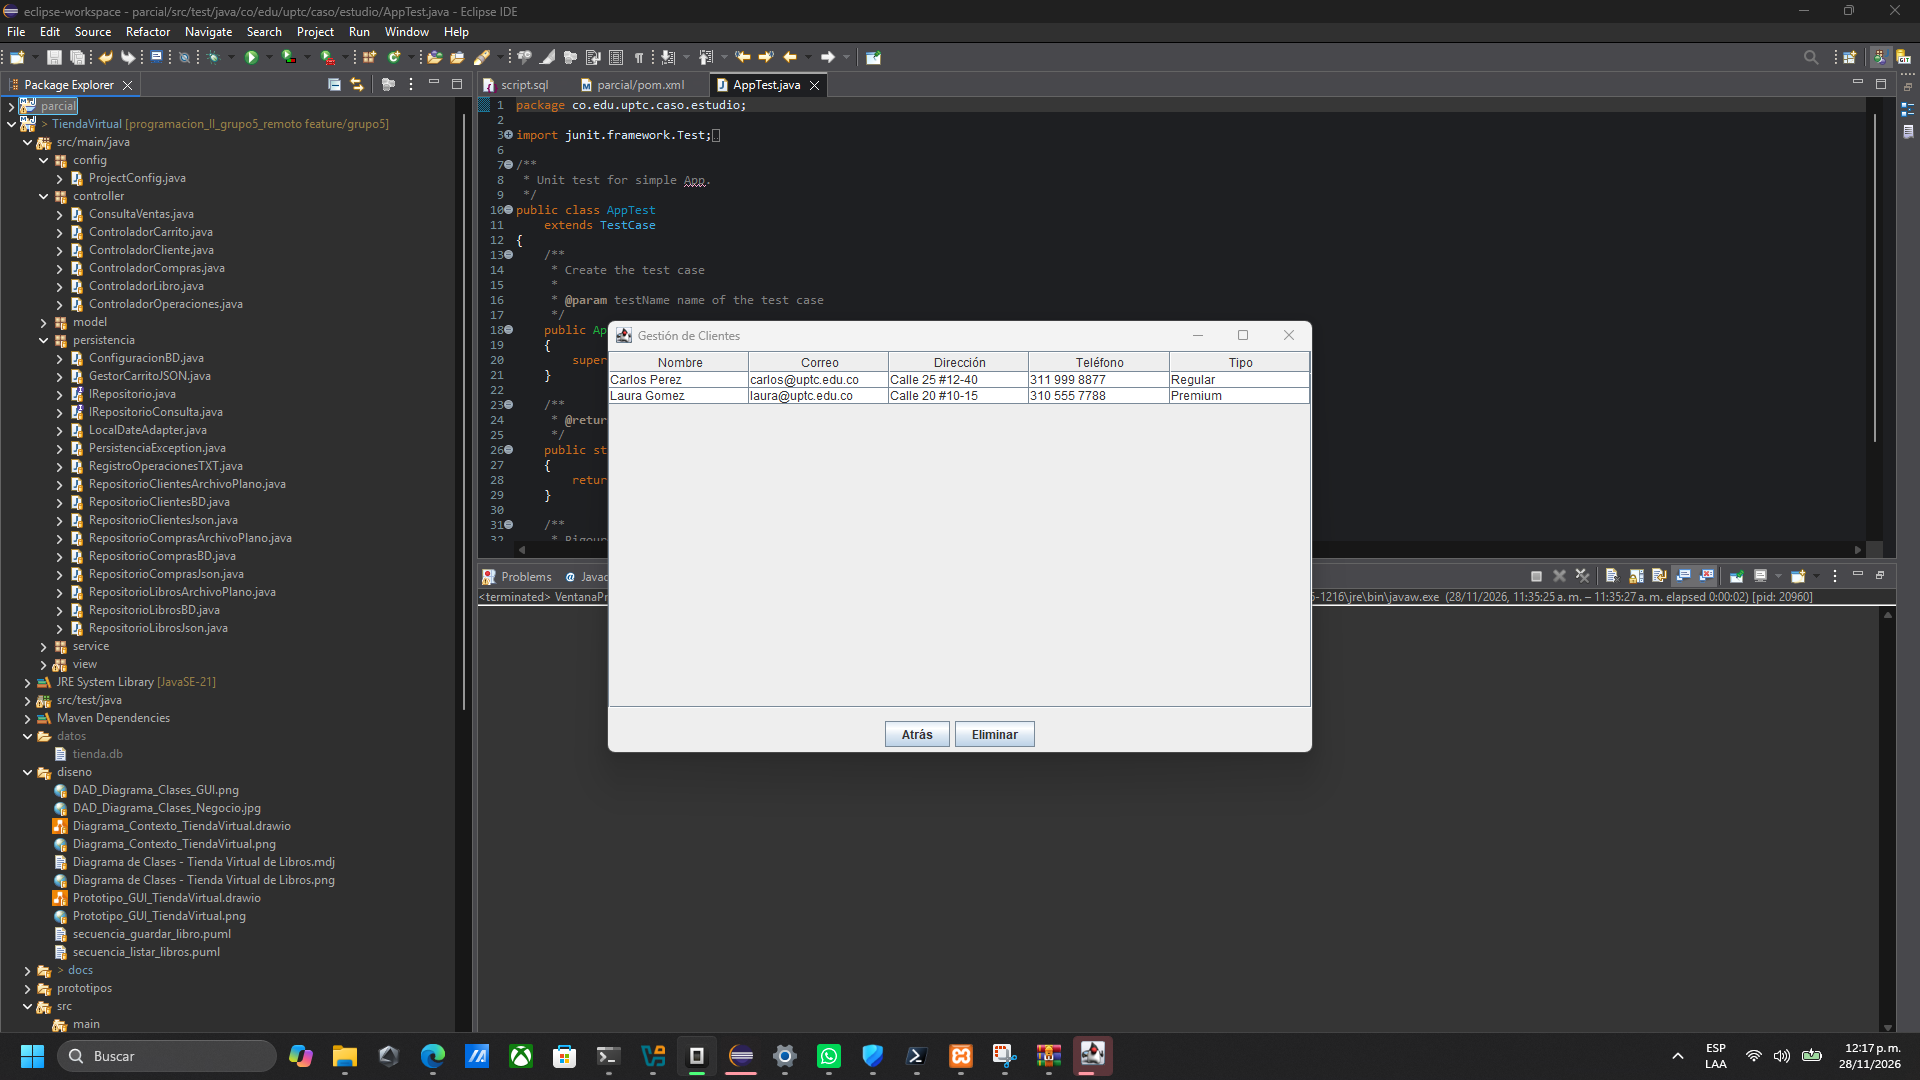
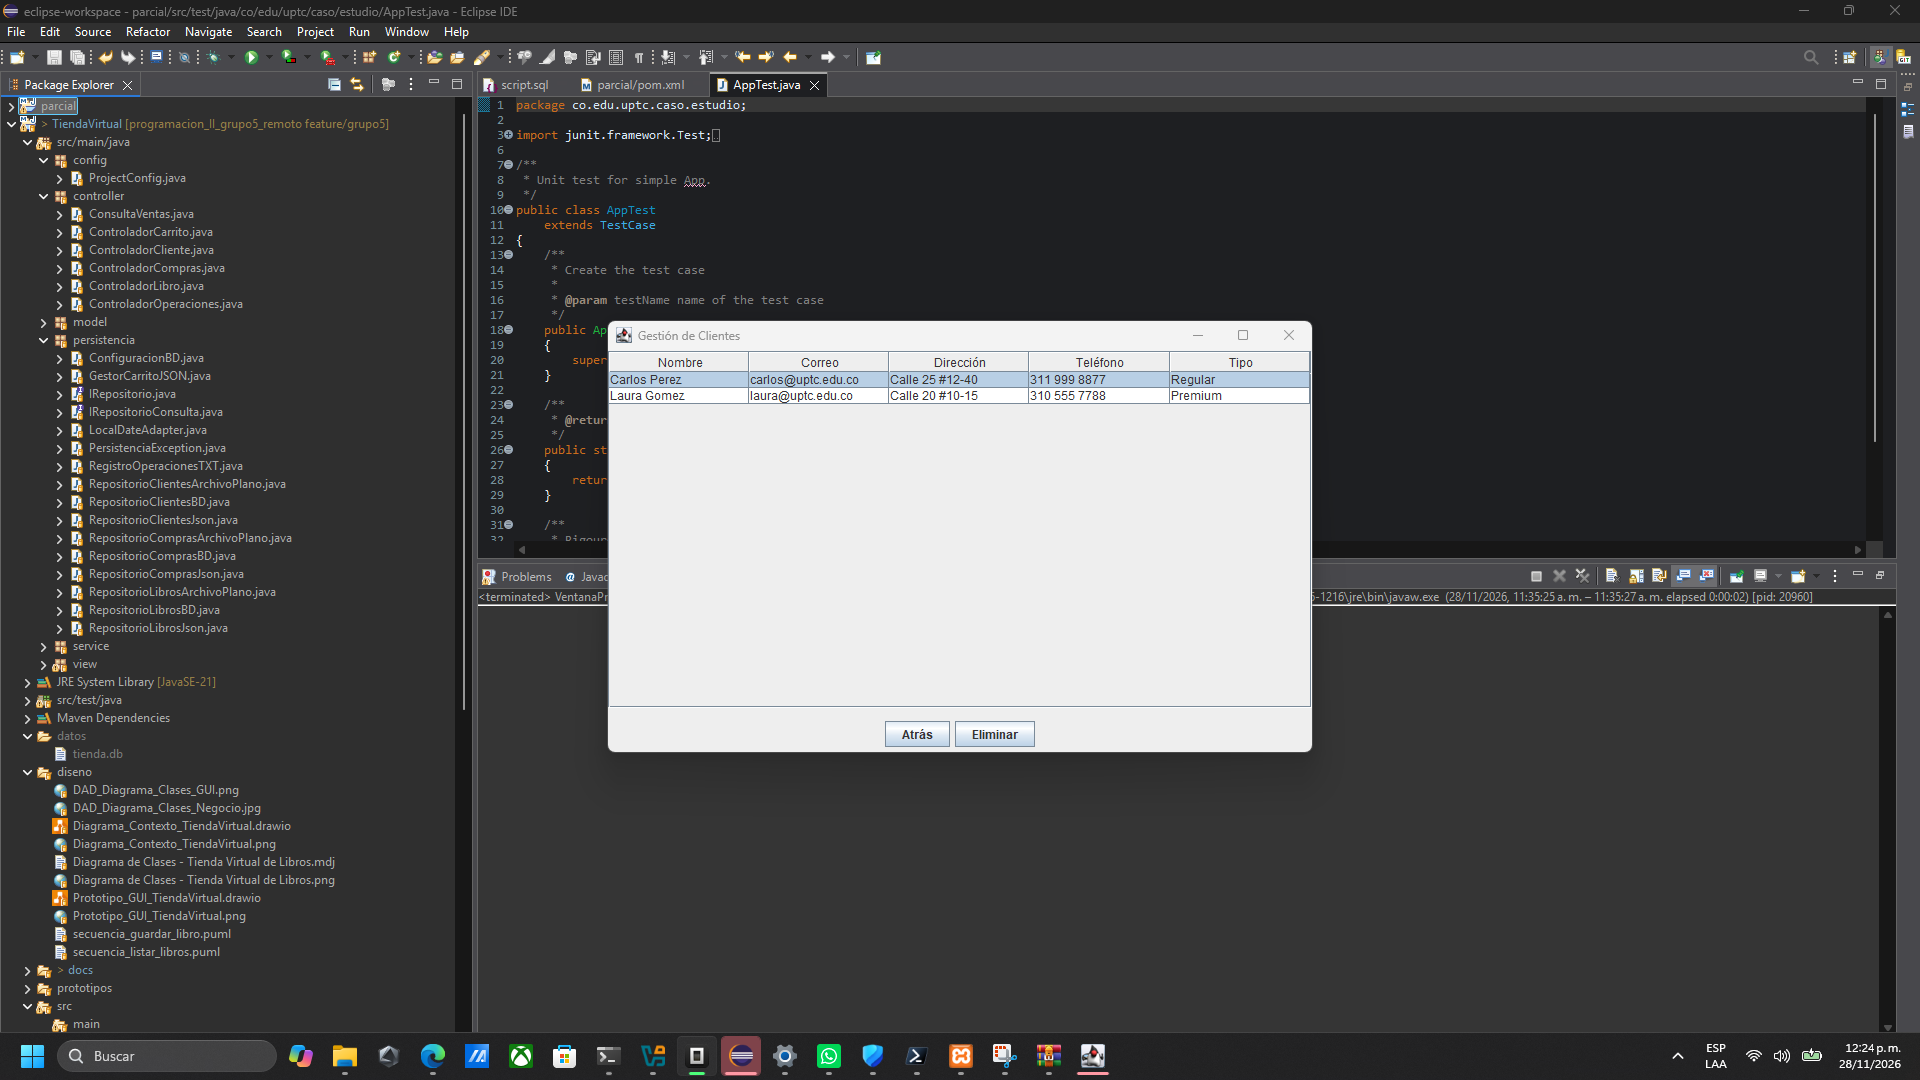
docs(evidencias): elimina capturas duplicadas e indexa el DAD con enlace al repositorio

Changed region(s): [[0.3125, 0.3361, 0.6875, 0.3667], [0.5625, 0.9472, 0.5938, 1.0], [0.375, 0.9472, 0.4062, 1.0]]

diff --git a/grupo5_tienda_virtual/docs/evidencias/README.md b/grupo5_tienda_virtual/docs/evidencias/README.md
@@ -6,64 +6,88 @@
 
 ## 1. Capturas de pantalla
 
-### Capturas de la ventana
+Todas están a pantalla completa (1920×1080) con Eclipse abierto detrás.
+Se verificó que **no hay imágenes repetidas**: cada archivo muestra un estado
+distinto (comparación píxel a píxel de la ventana, ignorando el reloj).
+
+### 1.1 Recorrido completo de la app (`app/`, 43 capturas)
 
 | Archivo | Evidencia |
 |---|---|
-| `capturas/01_login.png` | Ventana de inicio de sesión |
-| `capturas/02_registro_cliente.png` | Registro de cliente |
-| `capturas/03_gestion_clientes.png` | Gestión y listado de clientes |
-| `capturas/04_gestion_libros.png` | Gestión y catálogo de libros |
-| `capturas/05_mi_cuenta.png` | Datos del cliente |
-| `capturas/06_compras_carrito.png` | Carrito con productos, subtotal, IVA, descuento y total |
-| `capturas/07_recibo.png` | Recibo con subtotal, IVA, descuento y total |
-| `capturas/08_historial_compras.png` | Historial de compras |
+| `app/01_login_vacio.png` | Login sin datos |
+| `app/02_login_campos_obligatorios.png` | Error de campos obligatorios |
+| `app/03_login_credenciales_invalidas.png` | Error de credenciales |
+| `app/04_login_llenado.png` | Login diligenciado |
+| `app/06_admin_menu.png` | Menú de administración |
+| `app/10_registro_vacio.png` | Registro vacío |
+| `app/11_registro_campos_obligatorios.png` | Registro sin datos obligatorios |
+| `app/12_registro_correo_invalido.png` | Registro con correo inválido |
+| `app/14_registro_llenado.png` | Registro diligenciado |
+| `app/15_registro_exitoso.png` | Cliente registrado correctamente |
+| `app/17_registro_correo_duplicado.png` | Correo ya registrado |
+| `app/18_clientes_listado.png` | Listado de clientes |
+| `app/19_clientes_confirmar_eliminar.png` | Confirmación de eliminación |
+| `app/20_clientes_eliminado_aviso.png` | Cliente eliminado |
+| `app/21_clientes_despues.png` | Listado actualizado |
+| `app/22_clientes_sin_seleccion.png` | Error sin selección |
+| `app/24_libros_eliminar_sin_isbn.png` | Error al eliminar sin ISBN |
+| `app/25_libros_isbn_duplicado.png` | ISBN duplicado |
+| `app/26_libros_datos_invalidos.png` | Datos numéricos inválidos |
+| `app/27_libros_formulario_lleno.png` | Libro diligenciado |
+| `app/28_libros_registrado_aviso.png` | Libro registrado |
+| `app/29_libros_seleccionado.png` | Libro seleccionado con formulario lleno |
+| `app/30_libros_actualizado_aviso.png` | Libro actualizado |
+| `app/31_libros_confirmar_eliminar.png` | Confirmación de eliminación |
+| `app/32_libros_eliminar_con_ventas_error.png` | Bloqueo por ventas asociadas |
+| `app/33_libros_con_ventas_bloqueado.png` | El libro con ventas sigue en el catálogo |
+| `app/34_libros_eliminado_aviso.png` | Libro sin ventas eliminado |
+| `app/35_libros_despues.png` | Catálogo final |
+| `app/36_mi_cuenta_datos.png` | Datos del cliente |
+| `app/40_mi_cuenta_a_compras.png` | Mi Cuenta abre Compras (carrito vacío) |
+| `app/41_mi_cuenta_a_historial.png` | Mi Cuenta abre el historial |
+| `app/43_compras_carrito_vacio.png` | Compra sin productos |
+| `app/44_compras_agregado.png` | Libro agregado al carrito |
+| `app/45_compras_cantidad_invalida.png` | Cantidad no numérica |
+| `app/46_compras_stock_insuficiente.png` | Stock insuficiente |
+| `app/47_compras_modificada.png` | Cantidad modificada |
+| `app/49_compras_lista_pagar.png` | Carrito listo con método de pago |
+| `app/50_compras_confirmacion.png` | Resumen de confirmación |
+| `app/51_compras_exitosa_aviso.png` | Compra registrada |
+| `app/52_recibo.png` | Recibo con subtotal, IVA, descuento y total |
+| `app/54_historial.png` | Historial de compras |
+| `app/55_mi_cuenta_nombre_obligatorio.png` | Validación de nombre |
+| `app/57_mi_cuenta_guardado_aviso.png` | Datos actualizados |
 
-### Capturas por operación CRUD
-
-En `crud/` están las capturas específicas por operación, a pantalla completa con Eclipse detrás:
+### 1.2 Pruebas individuales CRUD (`crud/`, 12 capturas)
 
 | Archivo | Operación |
 |---|---|
 | `crud/PI-CLI-01_crear_formulario.png` | Formulario de registro de cliente |
 | `crud/PI-CLI-02_listar.png` | Listado de clientes |
 | `crud/PI-CLI-03_actualizar.png` | Datos actualizados del cliente |
-| `crud/PI-CLI-04_eliminar.png` | Listado después de eliminar un cliente |
-| `crud/PI-LIB-01_crear_formulario.png` | Formulario de registro de libro |
-| `crud/PI-LIB-02_listar.png` | Catálogo/listado de libros |
+| `crud/PI-CLI-04_eliminar_antes.png` | Cliente seleccionado para eliminar |
+| `crud/PI-CLI-05_eliminar_despues.png` | Listado después de eliminar |
+| `crud/PI-LIB-01_crear_formulario.png` | Formulario de libro diligenciado |
+| `crud/PI-LIB-02_listar.png` | Búsqueda con formulario lleno |
 | `crud/PI-LIB-03_actualizar.png` | Libro actualizado |
-| `crud/PI-LIB-04_eliminar.png` | Listado después de eliminar un libro |
-| `crud/PI-COM-01_carrito.png` | Carrito con productos |
+| `crud/PI-LIB-04_eliminar_antes.png` | Libro seleccionado para eliminar |
+| `crud/PI-COM-01_carrito.png` | Carrito con productos y totales |
 | `crud/PI-COM-02_recibo.png` | Recibo de compra |
 | `crud/PI-COM-03_historial.png` | Historial de compras |
 
-Los errores y validaciones se evidencian en los logs de `pruebas/`:
-- Correo/contraseña inválidos.
-- Cliente duplicado.
-- Libro con datos inválidos.
-- Libro con ventas.
-- Stock insuficiente.
-- Compra inválida.
-- Fallo de guardado.
-
-### Capturas con Eclipse detrás
-
-En `capturas_eclipse/` están las mismas 8 ventanas, pero en pantalla completa
-(1920×1080) con Eclipse abierto detrás.
+### 1.3 Eclipse con el proyecto (`capturas_eclipse/`, 1 captura)
 
 | Archivo | Evidencia |
 |---|---|
-| `capturas_eclipse/00_eclipse_proyecto.png` | Eclipse con el proyecto abierto |
-| `capturas_eclipse/01_login.png` | Login con Eclipse detrás |
-| `capturas_eclipse/02_registro_cliente.png` | Registro con Eclipse detrás |
-| `capturas_eclipse/03_gestion_clientes.png` | Clientes con Eclipse detrás |
-| `capturas_eclipse/04_gestion_libros.png` | Libros con Eclipse detrás |
-| `capturas_eclipse/05_mi_cuenta.png` | Mi cuenta con Eclipse detrás |
-| `capturas_eclipse/06_compras_carrito.png` | Compras con Eclipse detrás |
-| `capturas_eclipse/07_recibo.png` | Recibo con Eclipse detrás |
-| `capturas_eclipse/08_historial_compras.png` | Historial con Eclipse detrás |
+| `capturas_eclipse/00_eclipse_proyecto.png` | Eclipse con el proyecto `grupo5_tienda_virtual [feature/grupo5]` abierto |
 
-Las capturas se generaron abriendo las ventanas reales del proyecto con datos de demostración:
+### Evidencias completas en GitHub
+
+```text
+https://github.com/UPTC-DEVELOP/programacion_II/tree/feature/grupo5/grupo5_tienda_virtual/docs/evidencias
+```
+
+Datos de demostración usados:
 
 - Cliente Premium: `laura@uptc.edu.co`.
 - Cliente Regular: `carlos@uptc.edu.co`.

diff --git a/grupo5_tienda_virtual/docs/DAD_FINAL_U4/10_EVIDENCIAS.md b/grupo5_tienda_virtual/docs/DAD_FINAL_U4/10_EVIDENCIAS.md
@@ -1,0 +1,114 @@
+# 10. Evidencias: qué va en el DAD y qué queda en el repositorio
+
+**Verificación de duplicados:** las 56 capturas se compararon recortando la
+ventana de la app y contrastando píxel a píxel (ignorando el reloj de Windows).
+Resultado: **0 imágenes repetidas**.
+
+## Repositorio
+
+```text
+https://github.com/UPTC-DEVELOP/programacion_II/tree/feature/grupo5/grupo5_tienda_virtual/docs/evidencias
+```
+
+| Carpeta | Contenido | Enlace directo |
+|---|---|---|
+| `app/` | Recorrido completo (43) | [ver](https://github.com/UPTC-DEVELOP/programacion_II/tree/feature/grupo5/grupo5_tienda_virtual/docs/evidencias/app) |
+| `crud/` | Pruebas individuales (12) | [ver](https://github.com/UPTC-DEVELOP/programacion_II/tree/feature/grupo5/grupo5_tienda_virtual/docs/evidencias/crud) |
+| `capturas_eclipse/` | Eclipse con el proyecto (1) | [ver](https://github.com/UPTC-DEVELOP/programacion_II/tree/feature/grupo5/grupo5_tienda_virtual/docs/evidencias/capturas_eclipse) |
+| `pruebas/` | Logs Maven (16) | [ver](https://github.com/UPTC-DEVELOP/programacion_II/tree/feature/grupo5/grupo5_tienda_virtual/docs/evidencias/pruebas) |
+
+## 10.1 Capturas que van dentro del DAD (42)
+
+### Arquitectura e integración
+
+| Captura | Sección | Muestra |
+|---|---|---|
+| `capturas_eclipse/00_eclipse_proyecto.png` | 3 y 6 | Eclipse con el proyecto abierto |
+
+### 4.1 Clientes (Juan Pablo)
+
+| Captura | Sección | Muestra |
+|---|---|---|
+| `app/01_login_vacio.png` | 4.1 | Login sin datos |
+| `app/04_login_llenado.png` | 4.1 | Login diligenciado |
+| `app/14_registro_llenado.png` | 4.1 | Registro diligenciado |
+| `app/15_registro_exitoso.png` | 4.1 | Cliente registrado |
+| `app/17_registro_correo_duplicado.png` | 4.1 | Correo duplicado |
+| `app/18_clientes_listado.png` | 4.1 | Listado de clientes |
+| `app/19_clientes_confirmar_eliminar.png` | 4.1 | Confirmación de eliminación |
+| `app/21_clientes_despues.png` | 4.1 | Listado actualizado |
+| `app/36_mi_cuenta_datos.png` | 4.1 | Datos del cliente |
+| `app/57_mi_cuenta_guardado_aviso.png` | 4.1 | Datos actualizados |
+| `crud/PI-CLI-01_crear_formulario.png` | 4.1.f | Crear |
+| `crud/PI-CLI-02_listar.png` | 4.1.f | Listar |
+| `crud/PI-CLI-03_actualizar.png` | 4.1.f | Actualizar |
+| `crud/PI-CLI-04_eliminar_antes.png` | 4.1.f | Eliminar (antes) |
+| `crud/PI-CLI-05_eliminar_despues.png` | 4.1.f | Eliminar (después) |
+
+### 4.2 Libros (Cristhian)
+
+| Captura | Sección | Muestra |
+|---|---|---|
+| `app/27_libros_formulario_lleno.png` | 4.2 | Formulario diligenciado |
+| `app/28_libros_registrado_aviso.png` | 4.2 | Libro registrado |
+| `app/29_libros_seleccionado.png` | 4.2 | Libro seleccionado |
+| `app/30_libros_actualizado_aviso.png` | 4.2 | Libro actualizado |
+| `app/31_libros_confirmar_eliminar.png` | 4.2 | Confirmación de eliminación |
+| `app/32_libros_eliminar_con_ventas_error.png` | 4.2 | Bloqueo por ventas |
+| `app/35_libros_despues.png` | 4.2 | Catálogo final |
+| `crud/PI-LIB-01_crear_formulario.png` | 4.2.f | Crear |
+| `crud/PI-LIB-02_listar.png` | 4.2.f | Listar/buscar |
+| `crud/PI-LIB-03_actualizar.png` | 4.2.f | Actualizar |
+| `crud/PI-LIB-04_eliminar_antes.png` | 4.2.f | Eliminar |
+
+### 4.3 Compras (Liz)
+
+| Captura | Sección | Muestra |
+|---|---|---|
+| `app/43_compras_carrito_vacio.png` | 4.3 | Compra sin productos |
+| `app/44_compras_agregado.png` | 4.3 | Libro agregado |
+| `app/46_compras_stock_insuficiente.png` | 4.3 | Stock insuficiente |
+| `app/47_compras_modificada.png` | 4.3 | Cantidad modificada |
+| `app/50_compras_confirmacion.png` | 4.3 | Confirmación de compra |
+| `app/52_recibo.png` | 4.3 | Recibo con descuento |
+| `app/54_historial.png` | 4.3 | Historial |
+| `crud/PI-COM-01_carrito.png` | 4.3.f | Carrito |
+| `crud/PI-COM-02_recibo.png` | 4.3.f | Recibo |
+| `crud/PI-COM-03_historial.png` | 4.3.f | Historial |
+
+### 5. Validaciones y errores
+
+| Captura | Muestra |
+|---|---|
+| `app/02_login_campos_obligatorios.png` | Campos obligatorios |
+| `app/03_login_credenciales_invalidas.png` | Credenciales inválidas |
+| `app/22_clientes_sin_seleccion.png` | Cliente sin seleccionar |
+| `app/45_compras_cantidad_invalida.png` | Cantidad no numérica |
+| `app/55_mi_cuenta_nombre_obligatorio.png` | Nombre obligatorio |
+
+## 10.2 Capturas que NO van dentro del DAD (14)
+
+Quedan en el repositorio como respaldo y se consultan con el enlace de la carpeta.
+
+| Captura | Motivo |
+|---|---|
+| `app/06_admin_menu.png` | Menú intermedio de administración |
+| `app/10_registro_vacio.png` | Estado inicial del formulario |
+| `app/11_registro_campos_obligatorios.png` | Variante del mismo mensaje de validación |
+| `app/12_registro_correo_invalido.png` | Variante del mismo mensaje de validación |
+| `app/20_clientes_eliminado_aviso.png` | Aviso intermedio |
+| `app/24_libros_eliminar_sin_isbn.png` | Variante de validación |
+| `app/25_libros_isbn_duplicado.png` | Variante de validación |
+| `app/26_libros_datos_invalidos.png` | Variante de validación |
+| `app/33_libros_con_ventas_bloqueado.png` | Repite el estado del bloqueo |
+| `app/34_libros_eliminado_aviso.png` | Aviso intermedio |
+| `app/40_mi_cuenta_a_compras.png` | Navegación intermedia |
+| `app/41_mi_cuenta_a_historial.png` | Navegación intermedia |
+| `app/49_compras_lista_pagar.png` | Estado previo a la confirmación |
+| `app/51_compras_exitosa_aviso.png` | Aviso intermedio |
+
+Aunque no se inserten en el documento, **todas** se pueden ver en:
+
+```text
+https://github.com/UPTC-DEVELOP/programacion_II/tree/feature/grupo5/grupo5_tienda_virtual/docs/evidencias
+```

diff --git a/grupo5_tienda_virtual/docs/DAD_FINAL_U4/README.md b/grupo5_tienda_virtual/docs/DAD_FINAL_U4/README.md
@@ -14,14 +14,18 @@ Esta carpeta es la **base** para construir el DAD final de Unidad 4. Todavía no
 4. [Compras](06_COMPRAS.md)
 5. [Pruebas cruzadas](07_PRUEBAS_CRUZADAS.md)
 6. [Integración](08_INTEGRACION.md)
-7. [Checklist y porcentaje](09_CHECKLIST.md)
+7. [Evidencias: qué va en el DAD](10_EVIDENCIAS.md)
+8. [Checklist y porcentaje](09_CHECKLIST.md)
 
 ## Evidencias existentes
 
-- `docs/evidencias/capturas/`: 8 capturas de ventanas.
-- `docs/evidencias/capturas_eclipse/`: 9 capturas a pantalla completa con Eclipse detrás.
+- `docs/evidencias/app/`: 43 capturas del recorrido completo de la aplicación.
+- `docs/evidencias/crud/`: 12 capturas por operación CRUD.
+- `docs/evidencias/capturas_eclipse/`: 1 captura de Eclipse con el proyecto.
 - `docs/evidencias/pruebas/`: 16 logs de pruebas Maven.
 - `docs/evidencias/README.md`: índice de evidencias.
+- Verificación de duplicados: 0 imágenes repetidas.
+- Evidencias completas: https://github.com/UPTC-DEVELOP/programacion_II/tree/feature/grupo5/grupo5_tienda_virtual/docs/evidencias
 
 ## Estado actual
 

diff --git a/grupo5_tienda_virtual/docs/ACTA_PRUEBAS.md b/grupo5_tienda_virtual/docs/ACTA_PRUEBAS.md
@@ -80,9 +80,10 @@ Total: **16/16 pruebas correctas**.
 Evidencias:
 
 - `docs/evidencias/pruebas/`: logs de las 16 pruebas.
-- `docs/evidencias/capturas/`: capturas de login, clientes, libros, carrito, recibo e historial.
-- `docs/evidencias/capturas_eclipse/`: las mismas capturas a pantalla completa con Eclipse detrás.
-- `docs/evidencias/crud/`: capturas por operación CRUD.
+- `docs/evidencias/app/`: recorrido completo de la aplicación (43 capturas).
+- `docs/evidencias/capturas_eclipse/`: Eclipse con el proyecto abierto.
+- `docs/evidencias/crud/`: capturas por operación CRUD (12).
+- Enlace a todas: https://github.com/UPTC-DEVELOP/programacion_II/tree/feature/grupo5/grupo5_tienda_virtual/docs/evidencias
 - `docs/evidencias/README.md`: índice de evidencias.
 
 ## 4. Prueba de cambio de una línea

diff --git a/grupo5_tienda_virtual/docs/DAD_FINAL_U4/04_CLIENTES.md b/grupo5_tienda_virtual/docs/DAD_FINAL_U4/04_CLIENTES.md
@@ -63,11 +63,16 @@ Vista → Eventos → IServicioClientes → ControladorCliente → IRepositorio 
 
 ## Capturas
 
-- `capturas_eclipse/01_login.png`
-- `capturas_eclipse/02_registro_cliente.png`
-- `capturas_eclipse/03_gestion_clientes.png`
-- `capturas_eclipse/05_mi_cuenta.png`
+- `app/04_login_llenado.png`
+- `app/14_registro_llenado.png`
+- `app/15_registro_exitoso.png`
+- `app/18_clientes_listado.png`
+- `app/19_clientes_confirmar_eliminar.png`
+- `app/21_clientes_despues.png`
+- `app/36_mi_cuenta_datos.png`
+- `app/57_mi_cuenta_guardado_aviso.png`
 - `crud/PI-CLI-01_crear_formulario.png`
 - `crud/PI-CLI-02_listar.png`
 - `crud/PI-CLI-03_actualizar.png`
-- `crud/PI-CLI-04_eliminar.png`
+- `crud/PI-CLI-04_eliminar_antes.png`
+- `crud/PI-CLI-05_eliminar_despues.png`

diff --git a/grupo5_tienda_virtual/docs/DAD_FINAL_U4/05_LIBROS.md b/grupo5_tienda_virtual/docs/DAD_FINAL_U4/05_LIBROS.md
@@ -65,8 +65,14 @@ Vista → EventosLibros → IServicioLibros → ControladorLibro → IRepositori
 
 ## Capturas
 
-- `capturas_eclipse/04_gestion_libros.png`
+- `app/27_libros_formulario_lleno.png`
+- `app/28_libros_registrado_aviso.png`
+- `app/29_libros_seleccionado.png`
+- `app/30_libros_actualizado_aviso.png`
+- `app/31_libros_confirmar_eliminar.png`
+- `app/32_libros_eliminar_con_ventas_error.png`
+- `app/35_libros_despues.png`
 - `crud/PI-LIB-01_crear_formulario.png`
 - `crud/PI-LIB-02_listar.png`
 - `crud/PI-LIB-03_actualizar.png`
-- `crud/PI-LIB-04_eliminar.png`
+- `crud/PI-LIB-04_eliminar_antes.png`

diff --git a/grupo5_tienda_virtual/docs/DAD_FINAL_U4/06_COMPRAS.md b/grupo5_tienda_virtual/docs/DAD_FINAL_U4/06_COMPRAS.md
@@ -69,9 +69,13 @@ Listar historial: EventosHistorialCompras → ControladorCompras → IRepositori
 
 ## Capturas
 
-- `capturas_eclipse/06_compras_carrito.png`
-- `capturas_eclipse/07_recibo.png`
-- `capturas_eclipse/08_historial_compras.png`
+- `app/43_compras_carrito_vacio.png`
+- `app/44_compras_agregado.png`
+- `app/46_compras_stock_insuficiente.png`
+- `app/47_compras_modificada.png`
+- `app/50_compras_confirmacion.png`
+- `app/52_recibo.png`
+- `app/54_historial.png`
 - `crud/PI-COM-01_carrito.png`
 - `crud/PI-COM-02_recibo.png`
 - `crud/PI-COM-03_historial.png`
